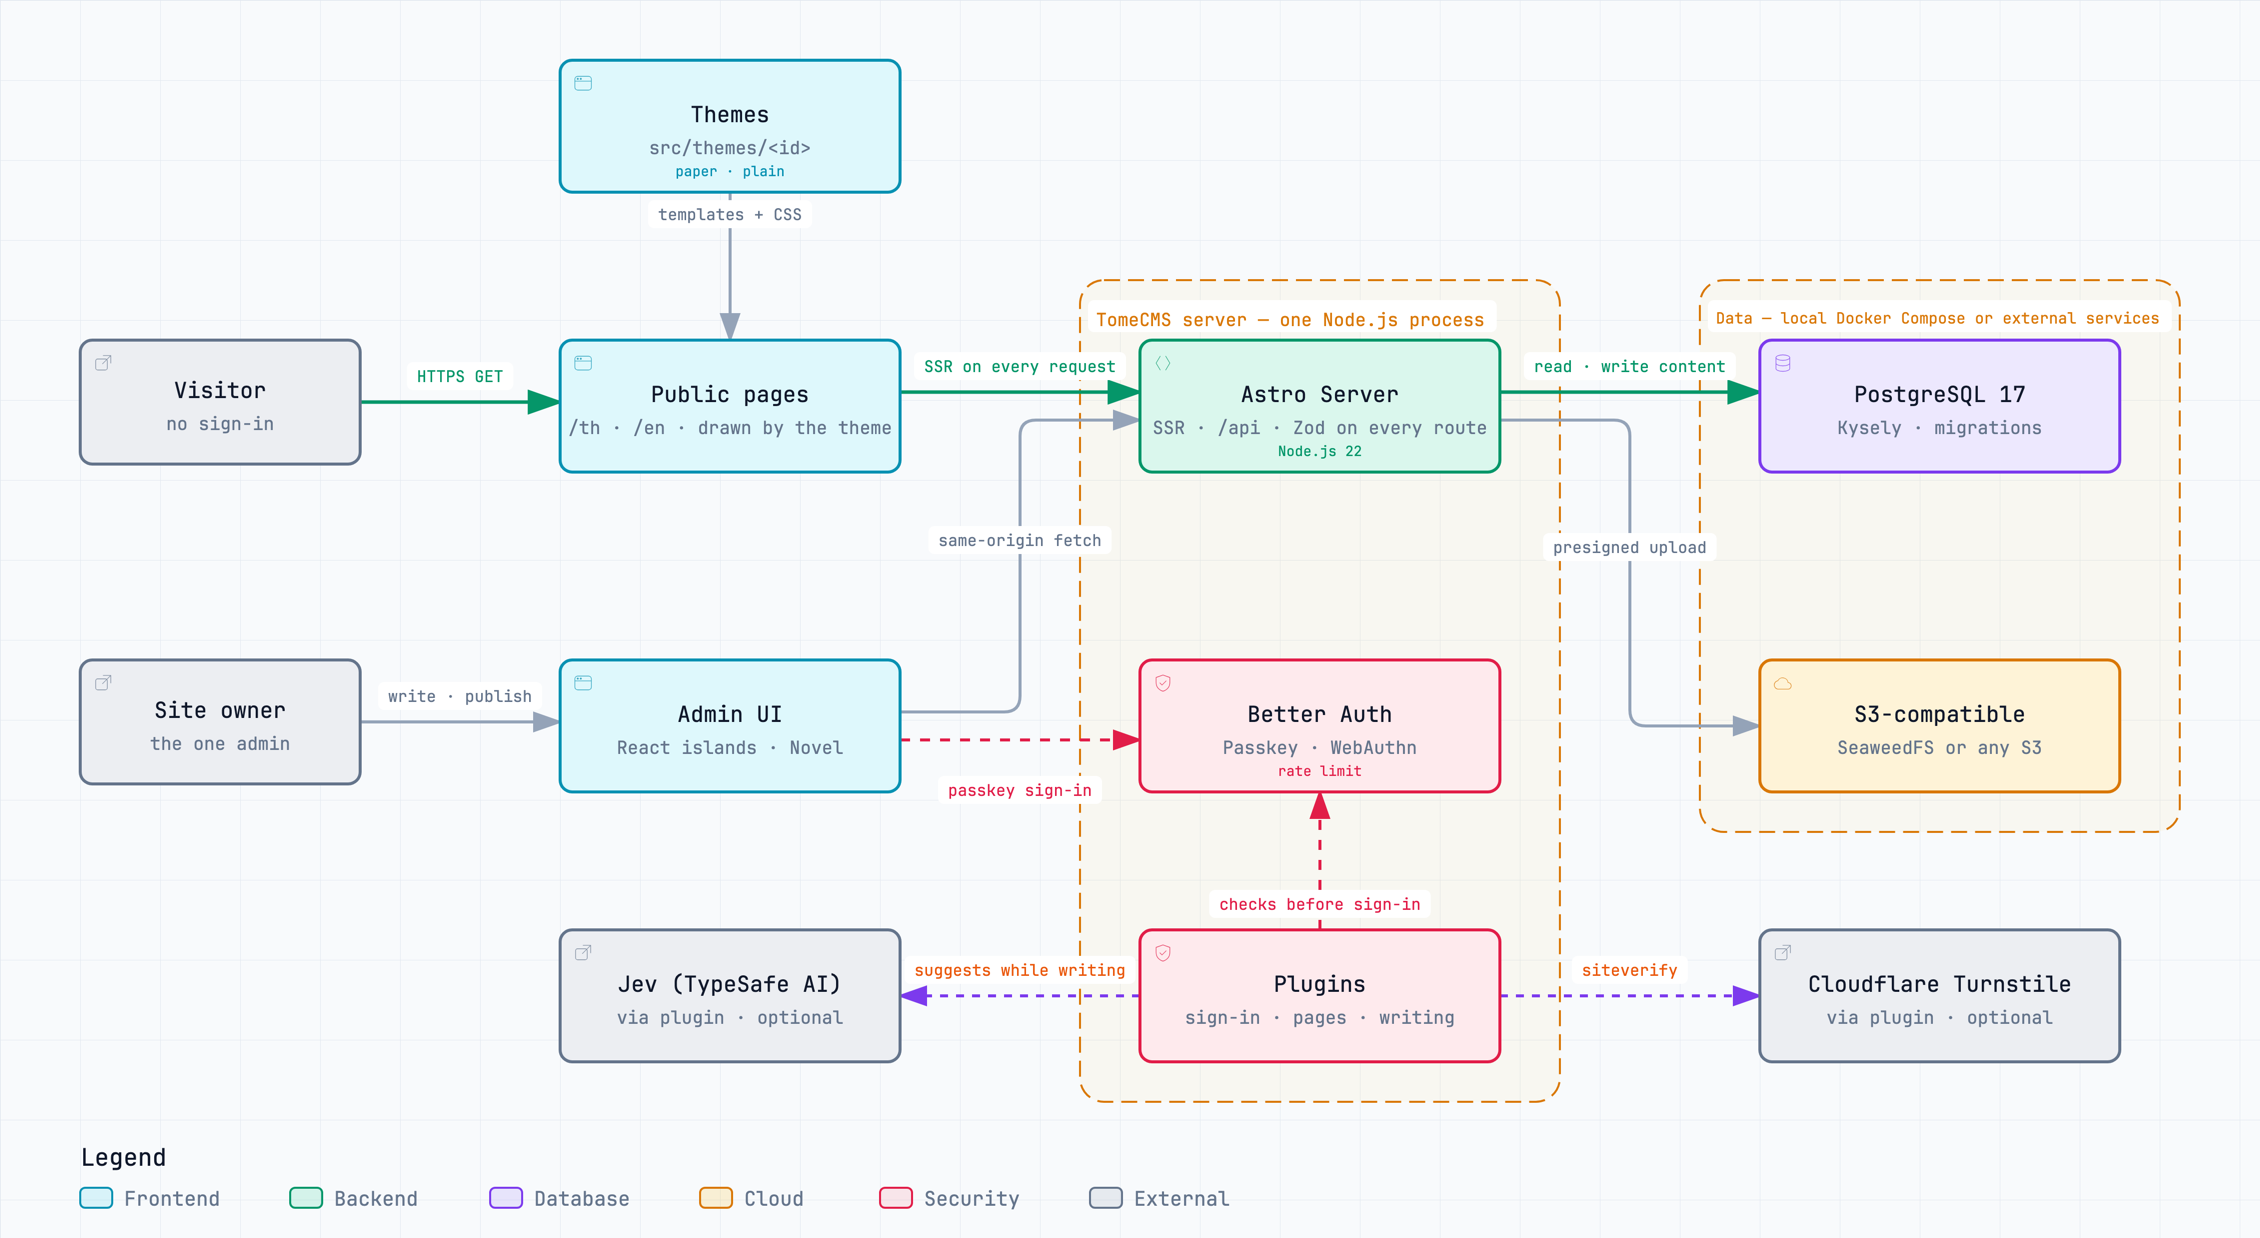
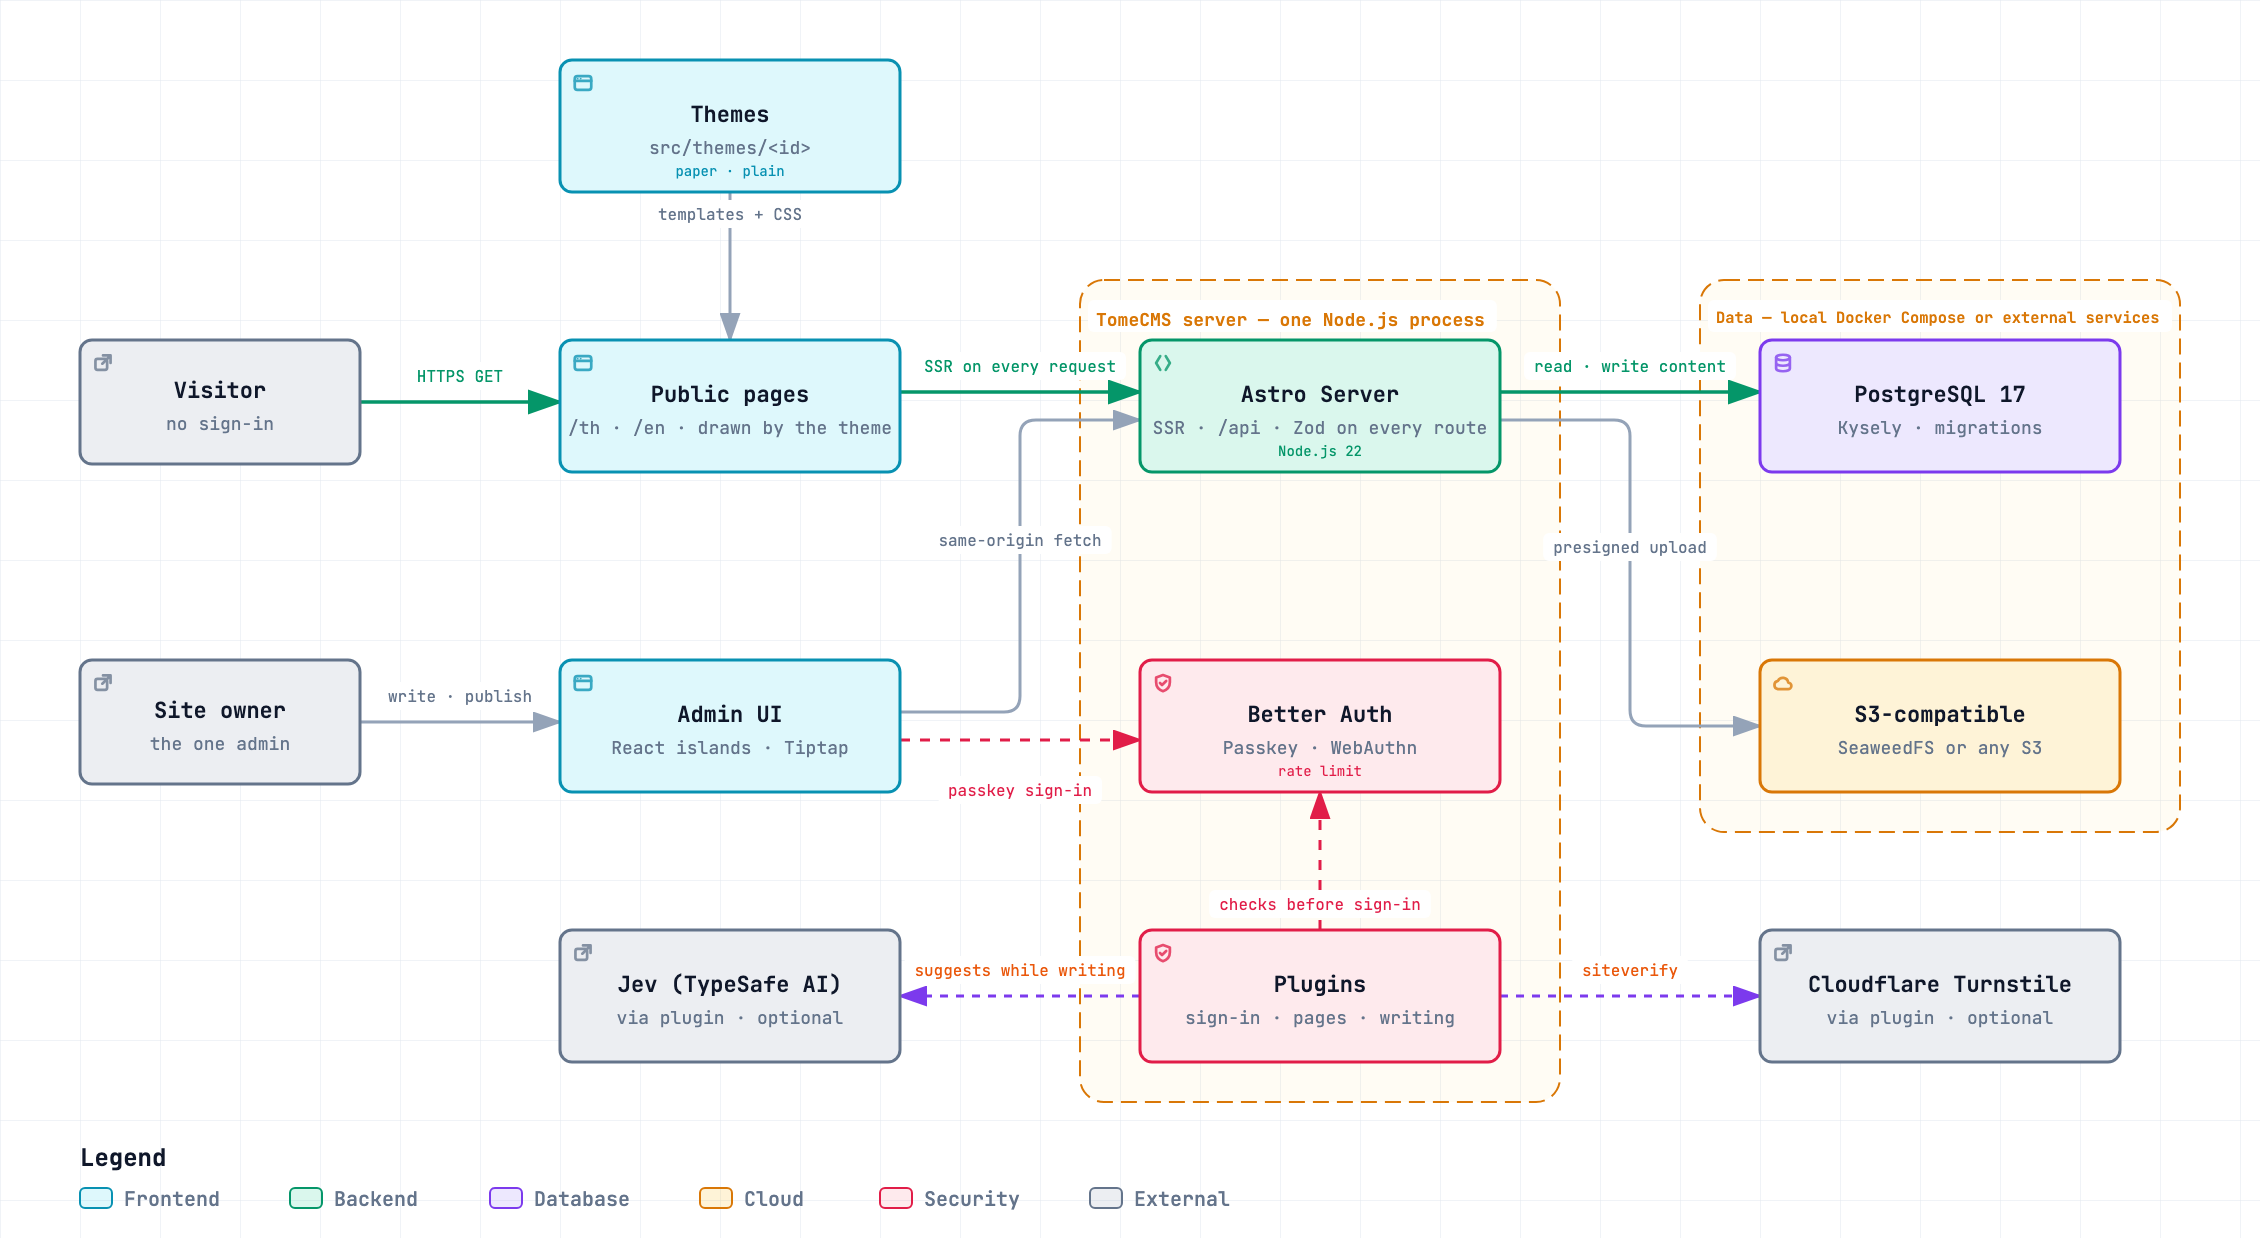
docs(repo): what a public repository needs before it opens
SECURITY.md says how to report a vulnerability privately, which versions
get fixes and what is in scope. CONTRIBUTING.md says how the code is
kept, how it is tested and what a pull request needs. Issue forms for a
bug and a feature idea, with blank issues off and security pointed at
private reporting, and a pull-request template. The README links both.

The pre-public read of docs/ found the Admin UI still described as
Tiptap and Novel, though Novel left in 0.9.0: the README's stack table,
the overview's data, both HTML viewers and the two README pictures now
say Tiptap. The pictures were re-rendered from the English viewer at
their old size and full detail.

diff --git a/docs/tome-cms-overview.html b/docs/tome-cms-overview.html
@@ -5101,8 +5101,8 @@
         <text data-detail="context" x="365" y="217" class="t-muted" font-size="9" text-anchor="middle">/th · /en · ธีมเป็นคนวาด</text>
         </g>
 
-        <g id="node-admin" data-node-id="admin" data-node-label="Admin UI" tabindex="0" role="button" aria-label="Focus Admin UI, React islands · Novel, Architecture component" aria-pressed="false" data-node-kind="frontend" data-node-sublabel="React islands · Novel" data-node-context="Architecture component">
-          <title>Admin UI · React islands · Novel · Architecture component</title>
+        <g id="node-admin" data-node-id="admin" data-node-label="Admin UI" tabindex="0" role="button" aria-label="Focus Admin UI, React islands · Tiptap, Architecture component" aria-pressed="false" data-node-kind="frontend" data-node-sublabel="React islands · Tiptap" data-node-context="Architecture component">
+          <title>Admin UI · React islands · Tiptap · Architecture component</title>
           <rect x="280" y="330" width="170" height="66" rx="6" class="c-mask"/>
           <rect x="280" y="330" width="170" height="66" rx="6" class="c-frontend" stroke-width="1.5"/>
           <g aria-hidden="true" data-semantic-sigil="frontend" class="semantic-sigil s-frontend" transform="translate(286 336) scale(0.6875)">
@@ -5112,7 +5112,7 @@
             <circle cx="6.3" cy="4.8" r=".7" class="sigil-fill"/>
           </g>
           <text data-node-label="" data-detail-anchor="" x="365" y="361" class="t-primary" font-size="11" font-weight="600" text-anchor="middle">Admin UI</text>
-        <text data-detail="context" x="365" y="377" class="t-muted" font-size="9" text-anchor="middle">React islands · Novel</text>
+        <text data-detail="context" x="365" y="377" class="t-muted" font-size="9" text-anchor="middle">React islands · Tiptap</text>
         </g>
 
         <g id="node-server" data-node-id="server" data-node-label="Astro Server" tabindex="0" role="button" aria-label="Focus Astro Server, SSR · /api · Zod ทุก route, เซิร์ฟเวอร์ TomeCMS — กระบวนการ Node.js เดียว" aria-pressed="false" data-node-kind="backend" data-node-sublabel="SSR · /api · Zod ทุก route" data-node-tag="Node.js 22" data-node-context="เซิร์ฟเวอร์ TomeCMS — กระบวนการ Node.js เดียว">

diff --git a/docs/tome-cms-overview.en.html b/docs/tome-cms-overview.en.html
@@ -5101,8 +5101,8 @@
         <text data-detail="context" x="365" y="217" class="t-muted" font-size="9" text-anchor="middle">/th · /en · drawn by the theme</text>
         </g>
 
-        <g id="node-admin" data-node-id="admin" data-node-label="Admin UI" tabindex="0" role="button" aria-label="Focus Admin UI, React islands · Novel, Architecture component" aria-pressed="false" data-node-kind="frontend" data-node-sublabel="React islands · Novel" data-node-context="Architecture component">
-          <title>Admin UI · React islands · Novel · Architecture component</title>
+        <g id="node-admin" data-node-id="admin" data-node-label="Admin UI" tabindex="0" role="button" aria-label="Focus Admin UI, React islands · Tiptap, Architecture component" aria-pressed="false" data-node-kind="frontend" data-node-sublabel="React islands · Tiptap" data-node-context="Architecture component">
+          <title>Admin UI · React islands · Tiptap · Architecture component</title>
           <rect x="280" y="330" width="170" height="66" rx="6" class="c-mask"/>
           <rect x="280" y="330" width="170" height="66" rx="6" class="c-frontend" stroke-width="1.5"/>
           <g aria-hidden="true" data-semantic-sigil="frontend" class="semantic-sigil s-frontend" transform="translate(286 336) scale(0.6875)">
@@ -5112,7 +5112,7 @@
             <circle cx="6.3" cy="4.8" r=".7" class="sigil-fill"/>
           </g>
           <text data-node-label="" data-detail-anchor="" x="365" y="361" class="t-primary" font-size="11" font-weight="600" text-anchor="middle">Admin UI</text>
-        <text data-detail="context" x="365" y="377" class="t-muted" font-size="9" text-anchor="middle">React islands · Novel</text>
+        <text data-detail="context" x="365" y="377" class="t-muted" font-size="9" text-anchor="middle">React islands · Tiptap</text>
         </g>
 
         <g id="node-server" data-node-id="server" data-node-label="Astro Server" tabindex="0" role="button" aria-label="Focus Astro Server, SSR · /api · Zod on every route, TomeCMS server — one Node.js process" aria-pressed="false" data-node-kind="backend" data-node-sublabel="SSR · /api · Zod on every route" data-node-tag="Node.js 22" data-node-context="TomeCMS server — one Node.js process">

diff --git a/CONTRIBUTING.md b/CONTRIBUTING.md
@@ -1,0 +1,69 @@
+# Contributing to TomeCMS
+
+Thank you for looking. TomeCMS is maintained by one person, so a small, focused change with
+its tests is the easiest kind to accept.
+
+Until 1.0.0 is released, TomeCMS is in a feature freeze: only fixes are merged. Ideas for
+features are still welcome as issues, and they will be looked at after 1.0.0.
+
+## Before you start
+
+- For anything bigger than a small fix, open an issue first and say what you want to change
+  and why. That saves you writing code that goes a different way from the plan.
+- Found a vulnerability? Do not open an issue; see [SECURITY.md](SECURITY.md).
+- Designs and implementation plans live in [`docs/specs`](docs/specs) and
+  [`docs/plans`](docs/plans). They explain why things are the way they are.
+
+## Setting up
+
+Follow [Developing TomeCMS](README.md#developing-tomecms) in the README. It covers local setup
+on macOS and on Windows, the project layout, writing a theme and writing a plugin.
+
+## How the code is kept
+
+- **Two languages.** The admin's words live in `src/lib/admin-i18n.ts` and the public site's
+  in `src/lib/i18n.ts`. Every string is written in both English and Thai. In the admin's file
+  the Thai copy is typed as the English one, so a missing key fails the type check.
+- **One set of design tokens.** Colours, spacing, radii and type come from
+  `src/styles/installer-tokens.css` only. `DESIGN.md` describes them, and `npm run check`
+  fails when the two drift apart.
+- **Plugins describe; the core draws.** A plugin returns data, and nothing a plugin returns
+  is written into a page as markup. See [Writing a plugin](README.md#writing-a-plugin).
+- **Migrations are append-only.** A schema change is a new numbered file in
+  `src/server/db/migrations`, registered in `src/server/db/migrator.ts` and in
+  `src/server/db/reset-tables.ts`. A migration that has shipped is never edited.
+- **Follow what is there.** Match the naming, comments and structure of the code around your
+  change, and do not reformat code you are not changing.
+
+## Tests
+
+Write the test first and watch it fail, then make it pass. A fix comes with the test that
+would have caught the bug.
+
+```sh
+npm run check        # astro check, the design-token check and the scripts' self-tests
+npm run test:unit
+node scripts/test-foundation.mjs tests/integration/<file>.test.ts
+npm run test:e2e -- tests/e2e/<file>.spec.ts
+```
+
+Integration and end-to-end tests stand up their own disposable PostgreSQL and SeaweedFS under
+Docker Compose, and remove them afterwards. Browser tests run on both Playwright projects,
+desktop and phone. [Tests and checks](README.md#tests-and-checks) in the README has the
+details.
+
+## Commits and pull requests
+
+- Commit messages follow [Conventional Commits](https://www.conventionalcommits.org/):
+  `type(scope): what changed`, with `feat`, `fix`, `refactor`, `docs`, `test`, `chore`,
+  `perf` or `ci`. The body says why.
+- Keep one concern per pull request, and fill in the template. It asks what you changed, why,
+  and what you ran.
+- For a change people can see, add screenshots in the light and dark themes, and at a phone
+  width.
+- Never commit credentials, `.env` files, database dumps or backups.
+
+## License
+
+TomeCMS is released under the [MIT License](LICENSE). By contributing, you agree that your
+contribution is released under it too.

diff --git a/SECURITY.md b/SECURITY.md
@@ -1,0 +1,52 @@
+# Security policy
+
+## Reporting a vulnerability
+
+Please report a vulnerability privately, not in an issue, a discussion or a pull request. Use
+GitHub's private vulnerability reporting: open the repository's **Security** tab and choose
+**Report a vulnerability**. Only the maintainer can read the report.
+
+A useful report says:
+
+- which version or commit you tested
+- how TomeCMS was installed (the managed VPS install, a local development setup, or something
+  else), and whether it runs in bundled or headless mode
+- what an attacker can do, and what they need first (an account, a network position, a
+  crafted file)
+- the smallest steps that reproduce it
+
+Please do not test against a site you do not run, and do not read, change or delete other
+people's data to prove a point.
+
+TomeCMS is maintained by one person. Expect a first answer within seven days and an assessment
+within thirty. You will hear when a fix is ready and when it is released. Unless you ask not to
+be, you will be credited in the release notes.
+
+## Supported versions
+
+| Version | Fixes |
+|---|---|
+| The latest `0.x` release and `main` | Yes, until 1.0.0 is released |
+| Earlier `0.x` releases | No. The `0.x` line is clean-install only, so upgrade by installing the latest |
+
+After 1.0.0, the latest `1.x` release is supported, and the managed updater carries the fix.
+
+## Scope
+
+In scope is everything in this repository:
+
+- the admin, the public site and the content API
+- sign-in, recovery and the installer
+- the managed updater and its host service
+- the release workflow, the release manifest and its attestations
+- the Docker image
+
+Out of scope:
+
+- A vulnerability in a dependency that is already public. Report it upstream. Do tell us if
+  TomeCMS is exposed to it in a way its advisory does not cover.
+- Findings that need the owner to misconfigure the server first, such as publishing
+  PostgreSQL or SeaweedFS on a public address.
+- Denial of service by sheer volume.
+- Adding to the Stats counts within the documented per-address limit. They are published as
+  estimates.

diff --git a/README.md b/README.md
@@ -9,7 +9,7 @@ TomeCMS is a lightweight CMS for sites in Thai and English, built with Astro. It
 
 > **Status:** the package is `0.11.0`, and there is no production `v1.0.0` release yet. The managed `1.0.0` updater and its disposable operation harness are implemented. The production dependency audit reports no advisory at all. The integration, browser and operations gates run green against Astro 7. Two gates stay open because they need infrastructure this repository cannot stand up for itself: verifying a public, immutable release and its attestations, and accepting a real HTTPS VPS on `amd64` and `arm64`. Release notes: [0.11.0](docs/releases/0.11.0.md), [0.10.0](docs/releases/0.10.0.md), [0.9.0](docs/releases/0.9.0.md), [0.8.0](docs/releases/0.8.0.md), [0.7.0](docs/releases/0.7.0.md), [0.6.0](docs/releases/0.6.0.md), [0.5.0](docs/releases/0.5.0.md), [0.4.0](docs/releases/0.4.0.md), [0.3.0](docs/releases/0.3.0.md), [0.2.0](docs/releases/0.2.0.md), and the [planned 1.0.0 boundary](docs/releases/1.0.0.md). The [changelog](CHANGELOG.md) sums up every version in one place.
 
-This README has two parts. [Running TomeCMS](#running-tomecms) is for installing it and looking after a site. [Developing TomeCMS](#developing-tomecms) is for working on the code.
+This README has two parts. [Running TomeCMS](#running-tomecms) is for installing it and looking after a site. [Developing TomeCMS](#developing-tomecms) is for working on the code. To send a change, read [CONTRIBUTING.md](CONTRIBUTING.md); to report a vulnerability, read [SECURITY.md](SECURITY.md), and never open an issue for it.
 
 ## Key features
 
@@ -409,7 +409,7 @@ Neither installation nor update stores a GitHub token. The credential-free path 
 | Layer | Technology |
 | --- | --- |
 | Application | Astro SSR on Node.js 22 |
-| Admin UI | React islands, Tiptap and Novel |
+| Admin UI | React islands and Tiptap 3 |
 | Database | PostgreSQL 17 through Kysely |
 | Authentication | Better Auth with Passkeys |
 | Media | S3-compatible storage; local and self-hosted Compose use SeaweedFS 4.46 |

diff --git a/.github/pull_request_template.md b/.github/pull_request_template.md
@@ -1,0 +1,24 @@
+## What this changes
+
+<!-- One concern per pull request. Link the issue it fixes, e.g. "Fixes #123". -->
+
+## Why
+
+## How it was tested
+
+- [ ] `npm run check`
+- [ ] `npm run test:unit`
+- [ ] The integration tests this touches: `node scripts/test-foundation.mjs tests/integration/<file>.test.ts`
+- [ ] The browser specs this touches, on both Playwright projects: `npm run test:e2e -- tests/e2e/<file>.spec.ts`
+- [ ] A new test that failed before this change and passes after it
+
+## Screenshots
+
+<!-- For a change people can see: light and dark themes, and at a phone width. -->
+
+## Checklist
+
+- [ ] New admin or public words are in both English and Thai
+- [ ] Colours, spacing and radii come from the design tokens
+- [ ] A schema change is a new migration, not an edit to a shipped one
+- [ ] No credentials, `.env` files, dumps or backups are committed
